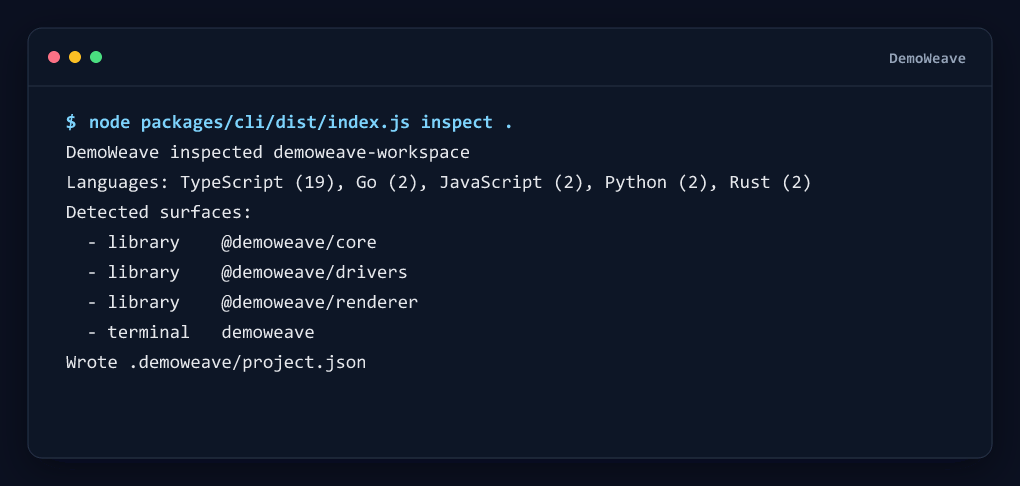
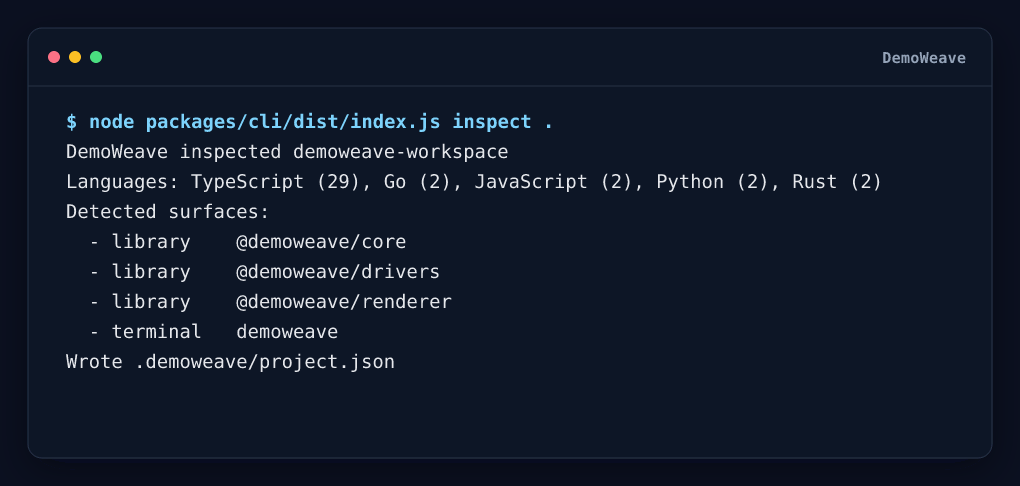
Document DemoWeave with its own evidence

Changed region(s): [[0.0608, 0.216, 0.851, 0.7716], [0.851, 0.0926, 0.9422, 0.1543]]

diff --git a/README.md b/README.md
@@ -1,81 +1,128 @@
 # DemoWeave
 
-DemoWeave is an agent-native documentation studio for software repositories.
+**Runtime evidence for agent-authored software documentation.**
 
-The goal is to let Claude Code or Codex understand a project, run the surfaces users interact with, collect real runtime evidence, and produce clean written + visual documentation: READMEs, guides, screenshots, GIFs, and full tutorials.
+DemoWeave helps Claude Code, Codex, and other coding agents ground documentation in verified repository facts and captured runtime behavior. The agent decides what to explain and writes the document; DemoWeave inspects the repository, executes declared workflows, records evidence with provenance, and renders terminal media.
 
-DemoWeave is designed for more than websites. A repository may expose web, CLI, desktop, mobile, library/SDK, notebook, research, and other surfaces at the same time.
+![DemoWeave inspecting its own repository in a captured terminal workflow](docs-media/inspect-project-terminal.gif)
 
-> **M0–M4 are complete.** DemoWeave can analyze a repository, execute terminal Flows, capture structured terminal Evidence, and render that Evidence into polished PNG/GIF assets with provenance. **Pilot P0 is now using DemoWeave to document DemoWeave itself.** See [ROADMAP.md](./ROADMAP.md).
+*DemoWeave inspecting DemoWeave: the committed `inspect-project` Flow ran the built CLI, captured terminal evidence, and rendered this GIF. It demonstrates the current evidence pipeline—not automatic README generation.*
+
+## Why DemoWeave
+
+Many AI documentation workflows stop at:
+
+```text
+source code → LLM → Markdown
+```
+
+DemoWeave adds a verifiable runtime path:
+
+```text
+understand → run → capture evidence → render → document
+```
+
+The result is a shared workflow in which an agent supplies reasoning and writing while DemoWeave supplies deterministic inspection, execution, evidence, rendering, validation, and provenance.
+
+## What works today
+
+| Capability | Status | Current scope |
+|---|---|---|
+| Repository analysis | Available | `ProjectProfile v1` with baseline Node, Python, Rust, and Go manifest analysis |
+| Multi-surface model | Available | One profile can record multiple components, entrypoints, frameworks, and typed surfaces |
+| Terminal workflows | Available | Non-interactive `Flow v1` execution with process runs, waits, assertions, and capture |
+| Evidence and provenance | Available | `TerminalTrack v1`, `Evidence v1`, and `Manifest v1` with source and derived relationships |
+| Terminal rendering | Available | Headless PNG rendering; GIF rendering when FFmpeg is installed |
+| Web, desktop, mobile, notebook, and research execution | Planned | Surface drivers are not implemented yet |
+| Automatic Markdown updates and stale tracking | Planned | Roadmap milestones M5 and M6 |
+| Composed or narrated tutorials | Planned | Roadmap milestones M8–M10 |
+
+Interactive PTY input, Playwright capture, native desktop/mobile automation, arbitrary GUI screenshots, and complete video/tutorial generation are outside the current implementation.
+
+## How it works
+
+```mermaid
+flowchart LR
+    R["Repository"] --> A["Claude Code / Codex"]
+    A --> I["demoweave inspect"]
+    I --> P["ProjectProfile v1"]
+    P --> A
+    A --> F["Flow v1"]
+    F --> D["Terminal driver"]
+    D --> E["Evidence + Manifest"]
+    E --> V["Terminal renderer"]
+    V --> M["PNG / GIF"]
+    E --> A
+    M --> A
+    A --> O["README / docs"]
+```
+
+The repository includes a [shared DemoWeave skill](skills/demoweave/SKILL.md) that gives coding agents the same platform-neutral workflow. It is a checked-in agent playbook, not a separately published Claude Code or Codex plugin.
+
+## Quick start
+
+DemoWeave is currently a private pnpm workspace, not a published npm package. Use it from a repository checkout.
+
+Requirements: Node.js 20+, pnpm, and optionally FFmpeg for GIF rendering.
+
+```bash
+git clone https://github.com/KingHacker9000/demoweave.git
+cd demoweave
+pnpm install --frozen-lockfile
+pnpm build
+
+node packages/cli/dist/index.js doctor
+node packages/cli/dist/index.js inspect .
+node packages/cli/dist/index.js validate .
+```
+
+`inspect` writes the generated `.demoweave/project.json` profile. `validate` checks the profile, committed Flows, Evidence manifest, and cross-file bindings.
+
+## Run the dogfood workflow
+
+This repository ships the Flow and source evidence used by the animation above:
+
+```bash
+node packages/cli/dist/index.js run inspect-project
+node packages/cli/dist/index.js render inspect-project-terminal --format png
+node packages/cli/dist/index.js render inspect-project-terminal --format gif
+node packages/cli/dist/index.js validate .
+```
+
+The workflow produces or updates:
+
+- `.demoweave/project.json` — generated repository facts
+- `.demoweave/evidence/artifacts/inspect-project-terminal.terminal.json` — renderer-independent terminal capture
+- `.demoweave/evidence/manifest.json` — Flow, Evidence, provenance, and derivation records
+- `docs-media/inspect-project-terminal.png` and `.gif` — rendered documentation assets
+
+Use `node packages/cli/dist/index.js --help` for the complete command list, including `init`, `status`, `run`, `render`, and `validate`.
+
+## Core concepts
+
+- **ProjectProfile** — deterministic facts about components, ecosystems, manifests, workspaces, entrypoints, commands, docs, and surfaces.
+- **Flow** — a surface-neutral sequence of semantic actions. The current terminal driver implements process runs, supported waits and assertions, and terminal capture.
+- **Evidence** — a typed artifact record with lifecycle, producer, provenance, and optional derivation metadata.
+- **Manifest** — the project index that connects Flows to source and derived Evidence.
+
+The versioned JSON contracts live in [`schemas/`](schemas/).
+
+## Project status
+
+DemoWeave is in active development. M0–M4 established the monorepo, repository analyzer, Flow/Evidence contracts, terminal driver, and PNG/GIF renderer. Pilot P0 is dogfooding that stack on this README; safe Markdown planning is next.
+
+See [ROADMAP.md](ROADMAP.md) for milestone boundaries and future surface drivers. P0 does not mark the Markdown planner, stale regeneration, browser automation, or tutorial composition as shipped.
 
 ## Development
 
-Requirements:
-
-- Node.js 20+
-- pnpm
-- FFmpeg only when GIF rendering is needed
-
 ```bash
-pnpm install
 pnpm build
 pnpm test
 pnpm typecheck
 ```
 
-After building, the CLI package exposes:
+CI runs the build, tests, typecheck, CLI workflow, and renderer smoke tests on Ubuntu and Windows.
 
-```bash
-pnpm --filter @demoweave/cli exec demoweave --help
-```
+## License
 
-## Current capabilities
-
-```bash
-demoweave doctor
-demoweave init .
-demoweave inspect .
-demoweave status .
-demoweave validate .
-demoweave run <flow-id-or-path>
-demoweave render <evidence-id-or-path> --format png
-demoweave render <evidence-id-or-path> --format gif
-```
-
-Current compatibility/runtime contracts include:
-
-- `ProjectProfile v1`
-- `Flow v1`
-- `Evidence v1`
-- `Manifest v1`
-- `SurfaceDriver v1`
-- `TerminalTrack v1`
-
-The analyzer records ecosystem-neutral repository facts for Node, Python, Rust, and Go projects while allowing one repository to expose multiple surfaces. Flow v1 describes semantic actions without baking in Playwright, Appium, terminal-recorder, or renderer-specific implementation details.
-
-The first runtime driver is terminal-native. DemoWeave executes non-interactive CLI workflows through lightweight process pipes rather than recording the user's personal terminal window. Captures preserve ordered input/stdout/stderr events and ANSI output in a renderer-independent TerminalTrack, then update Evidence/Manifest provenance atomically.
-
-The renderer consumes those tracks separately from execution. It replays terminal content into a controlled DemoWeave presentation, rasterizes PNGs headlessly, and can use FFmpeg to encode short README-friendly GIFs. No OBS, Electron, Chromium, or desktop recording is required for terminal media.
-
-The repository already dogfoods the full path:
-
-```bash
-node packages/cli/dist/index.js inspect .
-node packages/cli/dist/index.js run inspect-project
-node packages/cli/dist/index.js render inspect-project-terminal --format png
-node packages/cli/dist/index.js render inspect-project-terminal --format gif
-```
-
-Committed pilot artifacts live under `docs-media/`, with source/derived relationships recorded in `.demoweave/evidence/manifest.json`.
-
-No external LLM API is required for the core. Claude Code/Codex are the intelligence layer; DemoWeave provides deterministic inspection, execution, evidence capture, rendering, validation, and provenance tooling.
-
-### Component discovery boundary
-
-ProjectProfile v1 records supported manifests anywhere in the repository as components. To avoid presenting fixtures and examples as user-facing surfaces, automatic surface detection is currently limited to repository-root components and members of a workspace declared at the repository root. Other nested components remain visible as deterministic facts and can gain explicit surface-selection semantics later without changing the component model.
-
-## Current development target
-
-**Pilot P0 — DemoWeave documents DemoWeave.**
-
-The next PR will use the shared DemoWeave skill and the already-generated runtime GIF to turn this bootstrap README into the first concise, public-quality dogfood README. The general section-aware Markdown planning/patching engine remains M5; P0 proves the workflow before automating that layer.
+[MIT](LICENSE)
